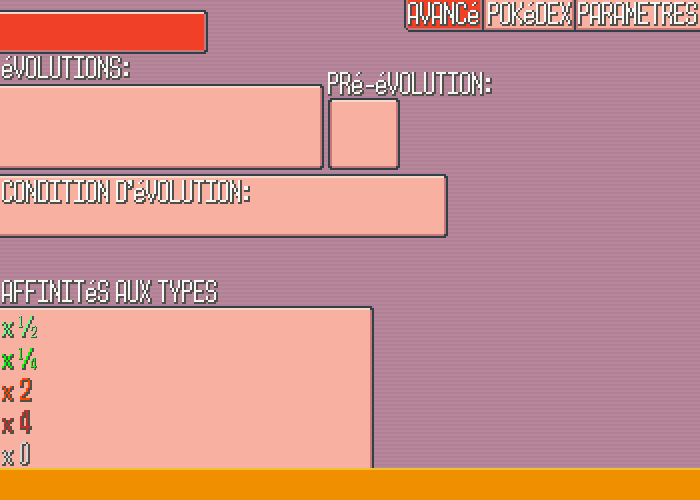
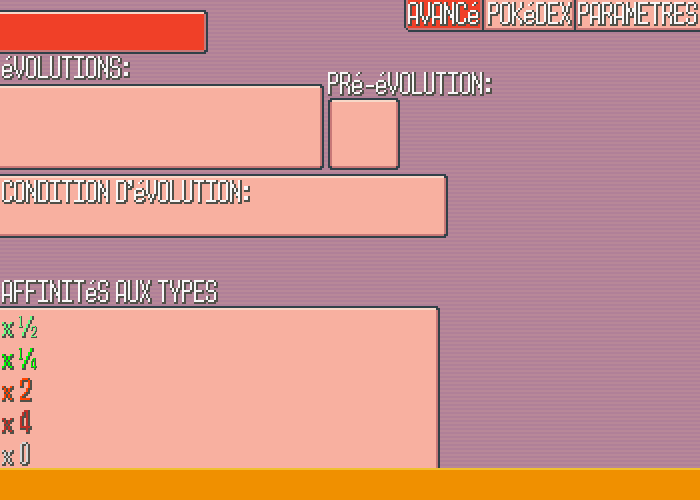
Ajout du système de recherche et aggrandissement du tableau des affinités des types

Changed region(s): [[0.51, 0.6, 0.63, 0.96]]

diff --git a/fenetre_pokedex.py b/fenetre_pokedex.py
@@ -760,6 +760,14 @@ avancé.im=avancéimg
 avancé.place(x=404,y=0)
 avancé.bind('<Button-1>',lambda event:avance_f())
 
+chercherimg = Image.open('images/fonds/chercher.png')
+chercherimg = ImageTk.PhotoImage(chercherimg)
+chercher=Label(root, image=chercherimg ,bg='#f8b0a0',borderwidth=0, highlightthickness=0)
+chercher.config(image=chercherimg)
+chercher.im=chercherimg
+chercher.place(x=238,y=406)
+chercher.bind('<Button-1>',lambda event:chercher_pokemon())
+
 img = Image.open('images/sprites3g/icones/empty.png')
 img = ImageTk.PhotoImage(img)
 label_pre_evolution=Label(root, image=img, bg='#f8b0a0',borderwidth=0, highlightthickness=0)
@@ -898,6 +906,8 @@ def parametres_f():
     root.bind('<Control-Shift-s>',lambda event:None)
     root.bind('<KeyRelease-S>',lambda event:None)
     root.bind('<KeyRelease-s>',lambda event:None)
+    root.bind('<Control-f>',lambda event:None)
+    root.bind('<Control-F>',lambda event:None)
 
 def afficher_pokedex():
 
@@ -956,6 +966,8 @@ def afficher_pokedex():
     parametres.place(x=576,y=0)
     pokemonaleatoire.place(x=190,y=406)
 
+    chercher.place(x=238,y=406)
+
 def afficher_nom_pokemon():
 
     xpos=20
@@ -992,6 +1004,8 @@ def pokedex():
     root.bind('<Control-Shift-s>',lambda event:shiny_on_hold())
     root.bind('<KeyRelease-S>',lambda event:desactiver_shiny())
     root.bind('<KeyRelease-s>',lambda event:desactiver_shiny())
+    root.bind('<Control-f>',lambda event:chercher_pokemon())
+    root.bind('<Control-F>',lambda event:chercher_pokemon())
 
 def cacher_avance():
 
@@ -1100,6 +1114,8 @@ def avance_f():
     retouraupokedex.place(x=484,y=0)
     parametres.place(x=576,y=0)
 
+    chercher.place_forget()
+
     afficher_les_types()
 
     root.bind('<Control-s>',lambda event:None)
@@ -1110,6 +1126,8 @@ def avance_f():
     root.bind('<Control-Shift-s>',lambda event:None)
     root.bind('<KeyRelease-S>',lambda event:None)
     root.bind('<KeyRelease-s>',lambda event:None)
+    root.bind('<Control-f>',lambda event:None)
+    root.bind('<Control-F>',lambda event:None)
 
 listelabelconditionlb=[]
 def listelabelcondition(label,xpos,bg):
@@ -1197,7 +1215,7 @@ for i in listelabelversionlb:
 
 place=0
 xpos=42
-for i in range(5):
+for i in range(6):
     listelabelresistances((('label')+str(place)),xpos)
     xpos+=66
 for i in listelabelresistanceslb:
@@ -1205,7 +1223,7 @@ for i in listelabelresistanceslb:
 
 place=0
 xpos=42
-for i in range(5):
+for i in range(6):
     listelabeldbresistances((('label')+str(place)),xpos)
     xpos+=66
     place+=1
@@ -1214,7 +1232,7 @@ for i in listelabeldbresistanceslb:
 
 place=0
 xpos=42
-for i in range(5):
+for i in range(6):
     listelabelfaiblesses((('label')+str(place)),xpos)
     xpos+=66
     place+=1
@@ -1223,7 +1241,7 @@ for i in listelabelfaiblesseslb:
 
 place=0
 xpos=42
-for i in range(5):
+for i in range(6):
     listelabeldbfaiblesses((('label')+str(place)),xpos)
     xpos+=66
     place+=1
@@ -1232,7 +1250,7 @@ for i in listelabeldbfaiblesseslb:
 
 place=0
 xpos=42
-for i in range(5):
+for i in range(6):
     listelabelimmunites((('label')+str(place)),xpos)
     xpos+=66
     place+=1
@@ -1243,7 +1261,7 @@ def afficher_les_types():
 
     listelabelstypes=[listelabelresistanceslb,listelabeldbresistanceslb,listelabelfaiblesseslb,listelabeldbfaiblesseslb,listelabelimmuniteslb]
 
-    for i in range(5):
+    for i in range(6):
         for liste in listelabelstypes:
             img = Image.open('images/types/empty.png')
             img = ImageTk.PhotoImage(img)
@@ -1252,27 +1270,27 @@ def afficher_les_types():
             liste[i].im=img
             
     xpos=42
-    for i in range(5):
-        listelabeldbresistanceslb[i].place(x=xpos,y=310)
+    for i in range(6):
+        listelabelresistanceslb[i].place(x=xpos,y=310)
         xpos+=66
 
     xpos=42
-    for i in range(5):
-        listelabelresistanceslb[i].place(x=xpos,y=342)
+    for i in range(6):
+        listelabeldbresistanceslb[i].place(x=xpos,y=342)
         xpos+=66
 
     xpos=42
-    for i in range(5):
+    for i in range(6):
         listelabelfaiblesseslb[i].place(x=xpos,y=374)
         xpos+=66
 
     xpos=42
-    for i in range(5):
+    for i in range(6):
         listelabeldbfaiblesseslb[i].place(x=xpos,y=406)
         xpos+=66
 
     xpos=42
-    for i in range(5):
+    for i in range(6):
         listelabelimmuniteslb[i].place(x=xpos,y=438)
         xpos+=66
 
@@ -1463,17 +1481,22 @@ def lettrecondition(label,mot,i):
         label.im=img
         
 def afficher_levolution(label,pokemon):
-    
+
     img = Image.open('images/sprites3g/icones/'+pokemon+'1.png')
     img = ImageTk.PhotoImage(img)
         
     label.config(image=img)
     label.im=img
+
+def chercher_pokemon():
+    choix_equipe_plus('choix_plus_equipes','chercher',combobox_nom,nom_du_pokemon)
         
 root.bind('<Control-s>',lambda event:cri_pokemon())
 root.bind('<Control-S>',lambda event:cri_pokemon())
 root.bind('<Control-o>',lambda event:choix_equipe_plus('choix_plus_equipes','voir',None,None))
 root.bind('<Control-O>',lambda event:choix_equipe_plus('choix_plus_equipes','voir',None,None))
+root.bind('<Control-f>',lambda event:chercher_pokemon())
+root.bind('<Control-F>',lambda event:chercher_pokemon())
 
 nompokemon.bind("<<ComboboxSelected>>", combobox_nom)
 

diff --git a/liste_pokemon.py b/liste_pokemon.py
@@ -415,23 +415,30 @@ listepokemon.append(Pokemon(151,['mew'],'Mew',100,100,100,100,100,100,100,False,
 listepokemon.append(Pokemon(152,['germignon'],'Germignon',48,49,65,45,0,49,65,False,['Macronium'],[16],'Plante',False,5100,87,13,45,['Feu','Glace','Insecte','Poison','Vol'],False,['Eau','Électrik','Plante','Sol'],False,False))
 listepokemon.append(Pokemon(153,['macronium'],'Macronium',60,62,80,60,0,63,80,'Germignon',['Méganium'],[32],'Plante',False,5100,87,13,45,['Feu','Glace','Insecte','Poison','Vol'],False,['Eau','Électrik','Plante','Sol'],False,False))
 listepokemon.append(Pokemon(154,['meganium','méganium'],'Méganium',80,82,100,80,0,83,10,'Macronium',False,False,'Plante',False,5100,87,13,45,['Feu','Glace','Insecte','Poison','Vol'],False,['Eau','Électrik','Plante','Sol'],False,False))
+
 listepokemon.append(Pokemon(155,['hericendre','héricendre','Hericendre'],'Héricendre',39,52,43,65,0,60,50,False,['Feurisson'],[14],'Feu',False,5100,87,13,45,['Eau','Roche','Sol'],False,['Acier','Feu','Glace','Insecte','Plante'],False,False))
 listepokemon.append(Pokemon(156,['feurisson'],'Feurisson',58,64,58,80,0,80,65,'Héricendre',['Typhlosion'],[36],'Feu',False,5100,87,13,45,['Eau','Roche','Sol'],False,['Acier','Feu','Glace','Insecte','Plante'],False,False))
 listepokemon.append(Pokemon(157,['typhlosion'],'Typhlosion',78,84,78,100,0,109,85,'Feurisson',False,False,'Feu',False,5100,87,13,45,['Eau','Roche','Sol'],False,['Acier','Feu','Glace','Insecte','Plante'],False,False))
+
 listepokemon.append(Pokemon(158,['kaiminus'],'Kaiminus',50,65,64,43,0,44,48,False,['Crocrodil'],[18],'Eau',False,5100,87,13,45,['Électrik','Plante'],False,['Acier','Eau','Feu','Glace'],False,False))
 listepokemon.append(Pokemon(159,['crocrodil'],'Crocrodil',65,80,80,58,0,59,63,'Kaiminus',['Aligatueur'],[30],'Eau',False,5100,87,13,45,['Électrik','Plante'],False,['Acier','Eau','Feu','Glace'],False,False))
 listepokemon.append(Pokemon(160,['aligatueur'],'Aligatueur',85,105,100,78,0,79,83,'Crocrodil',False,False,'Eau',False,5100,87,13,45,['Électrik','Plante'],False,['Acier','Eau','Feu','Glace'],False,False))
+
 listepokemon.append(Pokemon(179,['wattouat'],'Wattouat',55,50,50,35,0,65,45,False,['Lainergie'],[15],'Électrik',False,5120,50,50,235,['Sol'],False,['Acier','Électrik','Vol'],False,False))
 listepokemon.append(Pokemon(180,['lainergie'],'Lainergie',70,55,55,45,0,80,60,'Wattouat',['Pharamp'],[30],'Électrik',False,5120,50,50,120,['Sol'],False,['Acier','Électrik','Vol'],False,False))
 listepokemon.append(Pokemon(181,['pharamp'],'Pharamp',90,75,75,55,0,115,90,'Lainergie',False,False,'Électrik',False,5120,50,50,45,['Sol'],False,['Acier','Électrik','Vol'],False,False))
+
 listepokemon.append(Pokemon(196,['mentali'],'Mentali',65,65,60,110,0,130,95,'Évoli',False,False,'Psy',False,8670,87,13,45,['Insecte','Spectre','Ténèbres'],False,['Combat','Psy'],False,False))
 listepokemon.append(Pokemon(197,['noctali'],'Noctali',95,64,110,65,0,60,130,'Évoli',False,False,'Ténèbres',False,8670,87,13,45,['Combat','Insecte'],False,['Spectre','Ténèbres'],False,['Psy']))
+
 listepokemon.append(Pokemon(243,['raiku','raikou','Raiku'],'Raikou',90,85,75,115,0,115,100,False,False,False,'Électrik',False,30345,0,0,3,['Sol'],False,['Acier','Électrik','Vol'],False,False))
 listepokemon.append(Pokemon(244,['entei'],'Entei',115,115,85,100,0,90,75,False,False,False,'Feu',False,30345,0,0,3,['Eau','Roche','Sol'],False,['Acier','Feu','Glace','Insecte','Plante'],False,False))
 listepokemon.append(Pokemon(245,['suicune'],'Suicune',100,75,115,85,0,90,115,False,False,False,'Eau',False,30345,0,0,3,['Électrik','Plante'],False,['Acier','Eau','Feu','Glace'],False,False))
+
 listepokemon.append(Pokemon(246,['embrylex'],'Embrylex',50,64,50,41,0,45,50,False,['Ymphect'],[30],'Roche','Ténèbres',10240,50,50,45,['Normal','Feu','Vol','Roche'],['Poison'],['Glace','Combat','Sol','Acier'],['Plante','Eau'],['Électrik']))
 listepokemon.append(Pokemon(247,['ymphect'],'Ymphect',70,84,70,51,0,65,70,'Embrylex',['Tyranocif'],[55],'Roche','Ténèbres',10240,50,50,45,['Normal','Feu','Vol','Roche'],['Poison'],['Glace','Combat','Sol','Acier'],['Plante','Eau'],['Électrik']))
 listepokemon.append(Pokemon(248,['tyranocif'],'Tyranocif',100,134,100,61,0,65,100,'Ymphect',False,False,'Roche','Ténèbres',10240,50,50,45,['Normal','Feu','Vol','Roche'],['Poison'],['Glace','Combat','Sol','Acier'],['Plante','Eau'],['Électrik']))
+
 listepokemon.append(Pokemon(249,['lugia'],'Lugia',106,90,130,110,0,90,154,False,False,False,'Psy','Vol',30345,0,0,3,['Électrik','Glace','Roche','Spectre','Ténèbres'],False,['Plante','Psy'],['Combat'],['Sol']))
 listepokemon.append(Pokemon(250,['hooh','ho-oh'],'Ho-Oh',106,130,90,90,0,110,154,False,False,False,'Feu','Vol',30345,0,0,3,['Eau','Électrik'],['Roche'],['Acier','Combat','Feu'],['Insecte','Plante'],['Sol']))
 listepokemon.append(Pokemon(251,['celebi','célébi','Célébi'],'Celebi',100,100,100,100,0,100,100,False,False,False,'Psy','Plante',30345,0,0,3,['Feu','Glace','Poison','Spectre','Ténèbres','Vol'],['Insecte'],['Combat','Eau','Électrik','Plante','Psy','Sol'],False,False))

diff --git a/fenetre_equipes.py b/fenetre_equipes.py
@@ -3,7 +3,7 @@ import tkinter as tk
 from tkinter import *
 from tkinter import messagebox,ttk, Tk, Frame, Canvas, NW
 from PIL import ImageTk, Image
-from liste_pokemon import listenompokemon
+from liste_pokemon import listenompokemon,listepokemon
 from liste_pokemon import *
 from threading import Thread
 import winsound
@@ -1891,13 +1891,6 @@ def choix_equipe_plus(master,pos,equipeorigine,fenetre):
                 
             else:
                 
-                master.update()
-                background=PhotoImage(file='images/fonds/fondplusequipe.png')
-                bg.config(image=background)
-                bg.place(x=-2,y=-2)
-                bg.im=background
-                master.update()
-                
                 cherchetri=(cherche.get())
                 path=('txts/equipe'+cherchetri)
                 if not os.path.exists(path):
@@ -1915,13 +1908,6 @@ def choix_equipe_plus(master,pos,equipeorigine,fenetre):
                     creation_equipe('equipe',cherchetri,50,600,None)
                     
         elif pos == 'voir':
-            
-            master.update()
-            background=PhotoImage(file='images/fonds/fondplusequipe.png')
-            bg.config(image=background)
-            bg.place(x=-2,y=-2)
-            bg.im=background
-            master.update()
             
             cherchetri=(cherche.get())
             path=('txts/equipe'+cherchetri)
@@ -1959,8 +1945,28 @@ def choix_equipe_plus(master,pos,equipeorigine,fenetre):
                         renommer_msg = tkinter.messagebox.showinfo(title="Équipe renommée!",message=("L'équipe "+str(equipeorigine)+" à bien été renommée en "+str(cherchetri)))
                 else:
                     renommer_msg = tkinter.messagebox.showinfo(title="Action impossible",message=("Une équipe nommée "+str(cherchetri)+" éxiste déja"))
-                    
-    
+
+        elif pos == 'chercher':
+
+            pokemon_trouve=False
+            for pokemon in listepokemon:
+                if pokemon.nom == cherche.get():
+                    pokemon_trouve=True
+                    resultat=cherche.get()
+                if pokemon.num == cherche.get():
+                    pokemon_trouve=True
+                    resultat=pokemon.nom   
+                for i in pokemon.rawnom:
+                    if i == cherche.get():
+                        pokemon_trouve=True
+                        resultat=pokemon.nom
+            if pokemon_trouve == False:
+                aucun_pokemon = tkinter.messagebox.showinfo(title="Aucun Pokémon trouvé!",message="Aucun Pokémon n'a été trouvé!")
+            else:
+                master.destroy()
+                fenetre.set(resultat)
+                equipeorigine('e')
+                
     master.bind('<Key-1>',lambda event:lettre('',listelabel))
     master.bind('<Key-2>',lambda event:lettre('',listelabel))
     master.bind('<Key-3>',lambda event:lettre('',listelabel))
